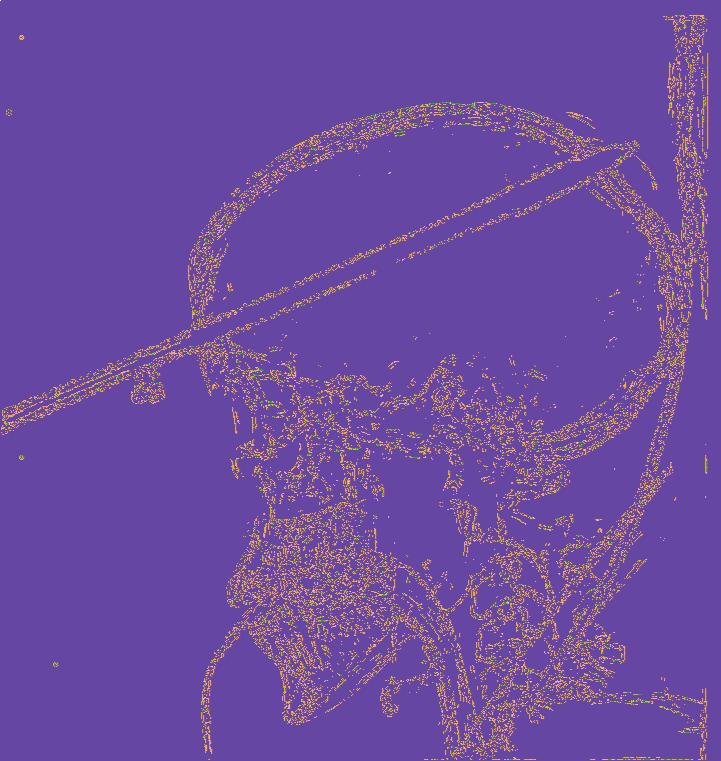
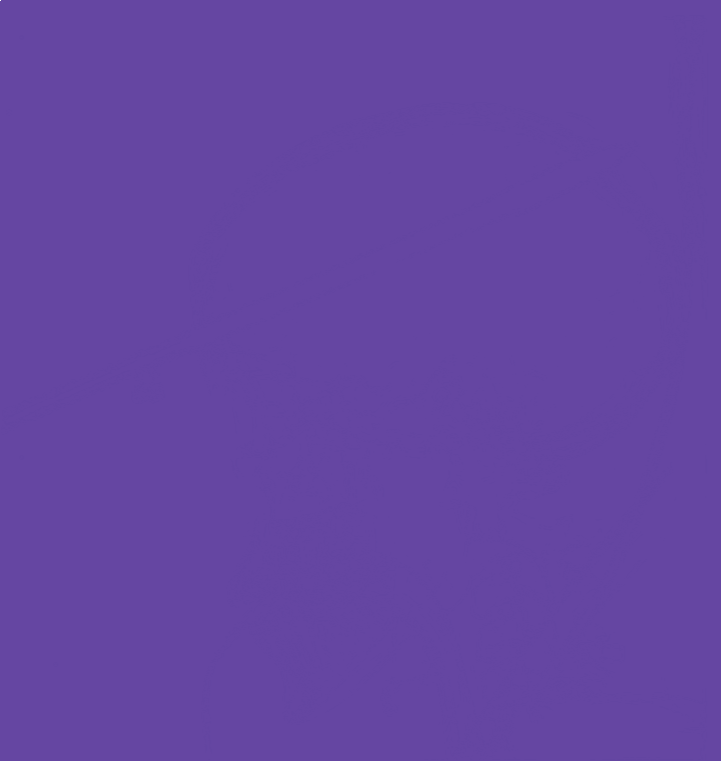
NEW PR

diff --git a/1course.c b/1course.c
@@ -41,7 +41,8 @@ void preparation(char * od, int w, int h){
     for (i=0; i<h; i++)
            for (j=0; j<w; j++) {
                 if (od[w*i + j]<100) od[w*i + j]=0;
-                if (od[w*i + j]>168) od[w*i + j]=255;
+		else od[w*i + j]=255;
+                //if (od[w*i + j]>168) od[w*i + j]=255;
            }
     return;
 }
